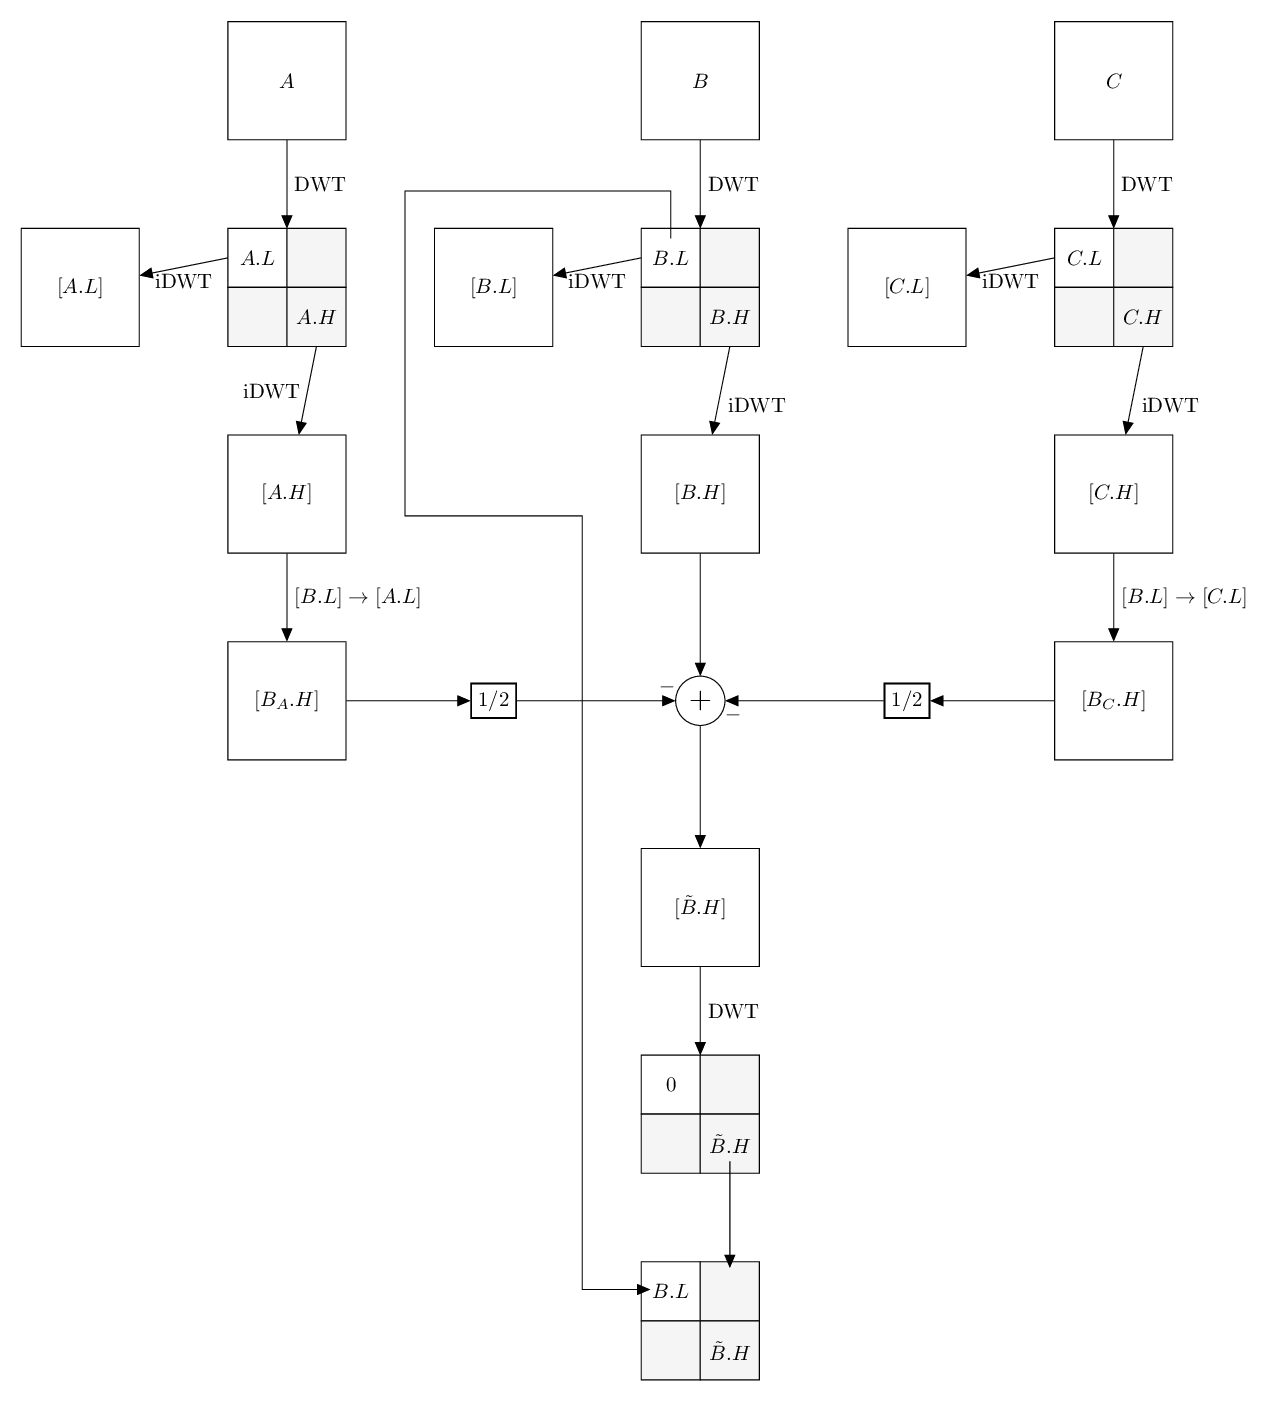
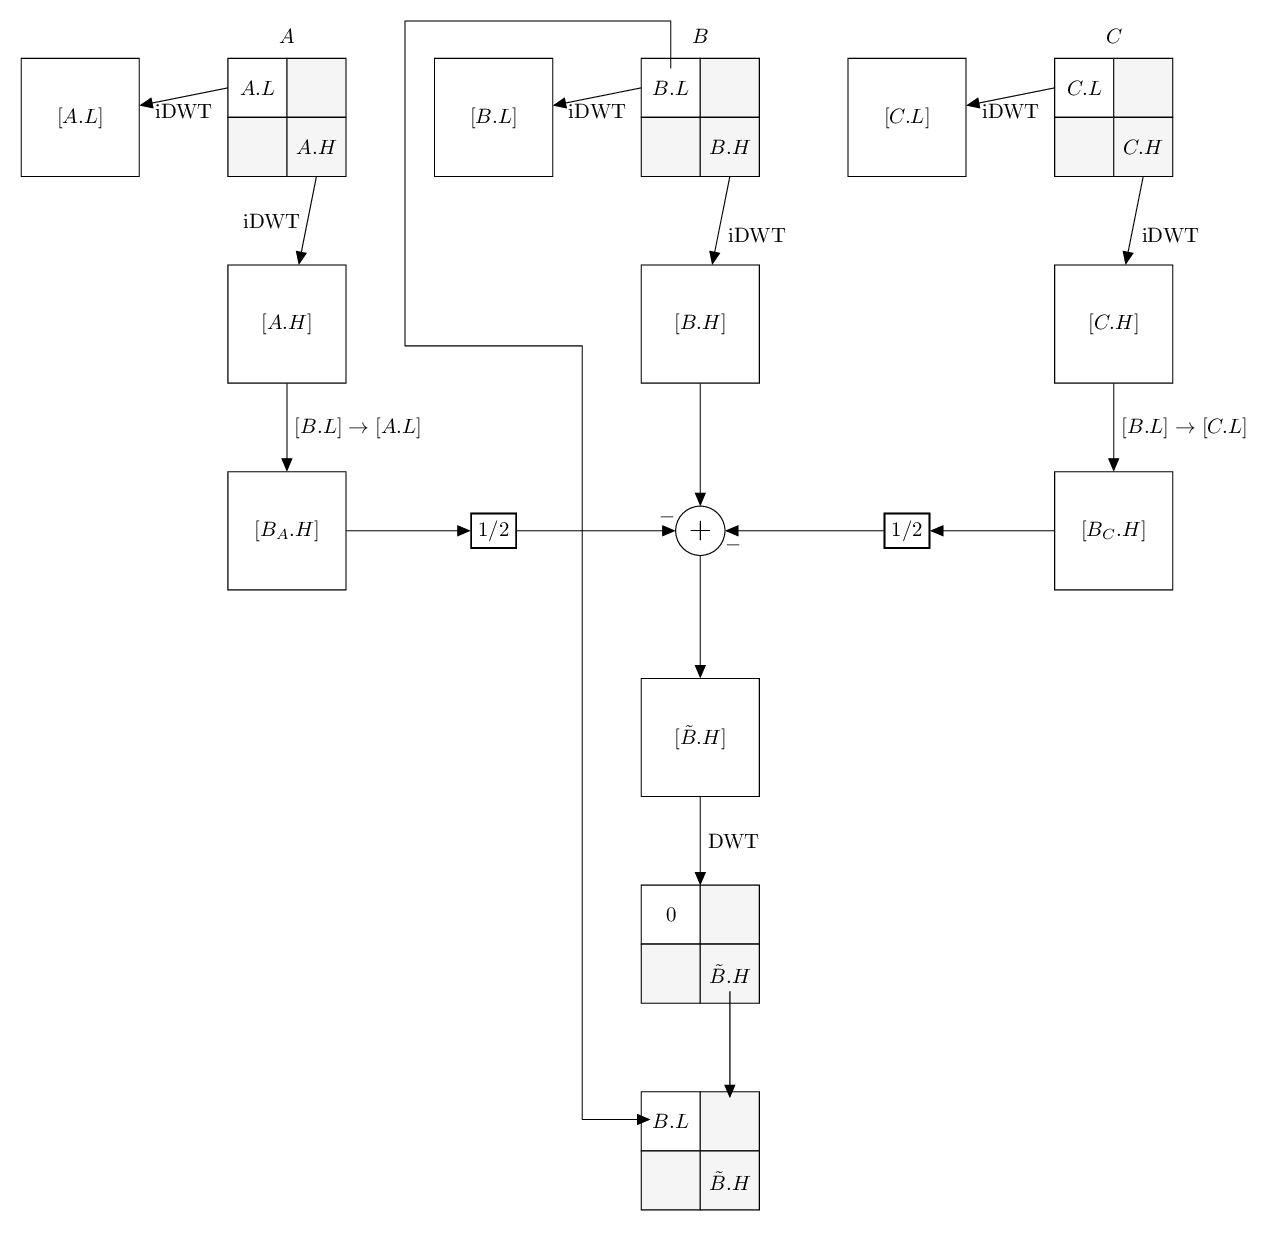
.

diff --git a/forward.tex b/forward.tex
@@ -32,14 +32,14 @@
 
   \draw
   node [block] (AL) {$[A.L]$}
-  node [node distance=3.5cm, right of=AL] (DWTA) {\DWT{A.L}{A.H}}
+  node [node distance=3.5cm, right of=AL, label=$A$] (DWTA) {\DWT{A.L}{A.H}}
   node [block, right of=DWTA] (BL) {$[B.L]$}
-  node [node distance=3.5cm, right of=BL] (DWTB) {\DWT{B.L}{B.H}}
+  node [node distance=3.5cm, right of=BL, label=$B$] (DWTB) {\DWT{B.L}{B.H}}
   node [block, right of=DWTB] (CL) {$[C.L]$}
-  node [node distance=3.5cm, right of=CL] (DWTC) {\DWT{C.L}{C.H}}
-  node [block, above of=DWTA] (A) {$A$}
-  node [block, above of=DWTB] (B) {$B$}
-  node [block, above of=DWTC] (C) {$C$}
+  node [node distance=3.5cm, right of=CL, label=$C$] (DWTC) {\DWT{C.L}{C.H}}
+  %node [block, above of=DWTA] (A) {$A$}
+  %node [block, above of=DWTB] (B) {$B$}
+  %node [block, above of=DWTC] (C) {$C$}
   node [block, below of=DWTA] (AH) {$[A.H]$}
   node [block, below of=DWTB] (BH) {$[B.H]$}
   node [block, below of=DWTC] (CH) {$[C.H]$}
@@ -53,11 +53,11 @@
   node [node distance=3.5cm, below of=BHp2] (out) {\DWT{B.L}{\tilde{B}.H}}
   ;
   
-  \draw [->] (A) -- node {DWT} ($(DWTA) + (0,1cm)$);
+  %\draw [->] (A) -- node {DWT} ($(DWTA) + (0,1cm)$);
   \draw [->] ($(DWTA) + (-1cm,0.5cm)$) -- node[below] {iDWT} (AL);
-  \draw [->] (B) -- node {DWT} ($(DWTB) + (0,1cm)$);
+  %\draw [->] (B) -- node {DWT} ($(DWTB) + (0,1cm)$);
   \draw [->] ($(DWTB) + (-1cm,0.5cm)$) -- node[below] {iDWT} (BL);
-  \draw [->] (C) -- node {DWT} ($(DWTC) + (0,1cm)$);
+  %\draw [->] (C) -- node {DWT} ($(DWTC) + (0,1cm)$);
   \draw [->] ($(DWTC) + (-1cm,0.5cm)$) -- node[below] {iDWT} (CL);
   \draw [->] ($(DWTA) + (0.5cm,-1cm)$) -- node[left] {iDWT} (AH);
   \draw [->] ($(DWTB) + (0.5cm,-1cm)$) -- node {iDWT} (BH);
